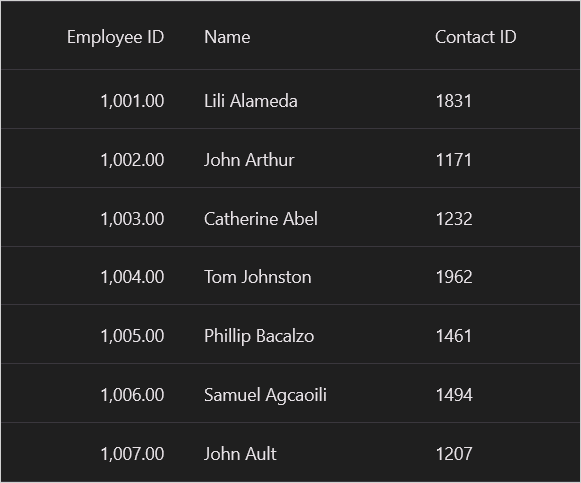
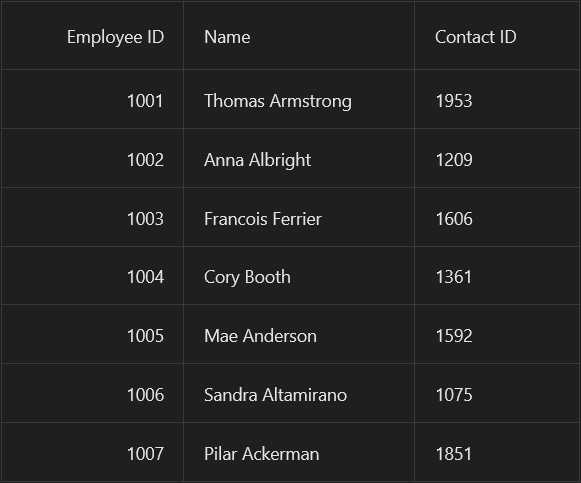
updated image

diff --git a/SfDataGridSample/MainPage.xaml b/SfDataGridSample/MainPage.xaml
@@ -9,9 +9,13 @@
         <local:EmployeeViewModel x:Name="viewModel"/>
     </ContentPage.BindingContext>
 
-    <syncfusion:SfDataGrid ItemsSource="{Binding Employees}" AutoGenerateColumnsMode="None" ColumnWidthMode="Auto">
+    <syncfusion:SfDataGrid ItemsSource="{Binding Employees}"
+                           AutoGenerateColumnsMode="None" 
+                           HeaderGridLinesVisibility="Both" 
+                           GridLinesVisibility="Both"
+                           ColumnWidthMode="Auto">
         <syncfusion:SfDataGrid.Columns>
-            <syncfusion:DataGridNumericColumn MappingName="EmployeeID" HeaderText="Employee ID"/>
+            <syncfusion:DataGridNumericColumn MappingName="EmployeeID" Format="d" HeaderText="Employee ID"/>
             <syncfusion:DataGridTextColumn MappingName="Name"/>
             <syncfusion:DataGridTextColumn MappingName="ContactID" HeaderText="Contact ID"/>
         </syncfusion:SfDataGrid.Columns>
